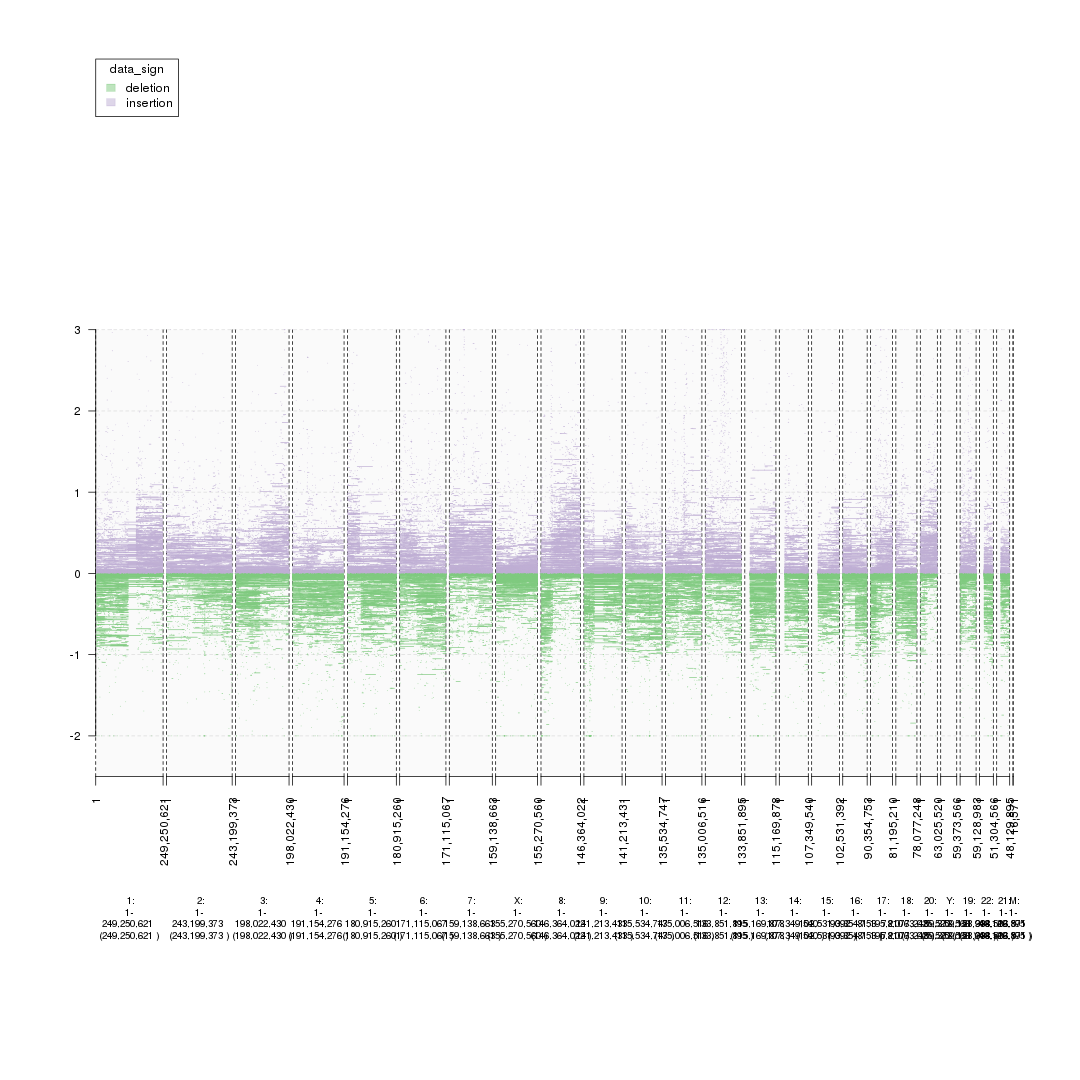
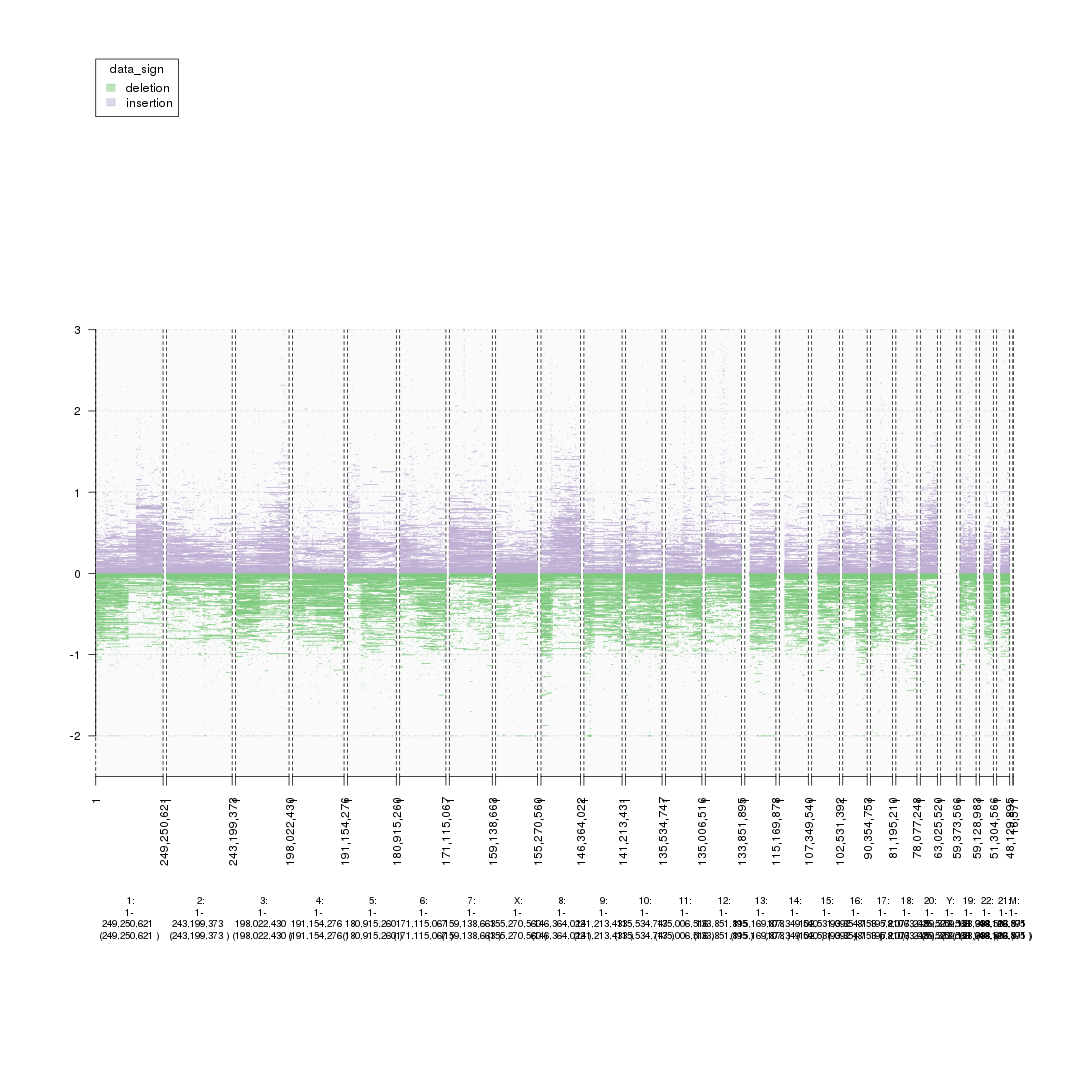
update super enhancers

Changed region(s): [[0.0917, 0.4278, 0.9472, 0.6111]]

diff --git a/rtdocs/super_enhancers/super_enhancers.rst b/rtdocs/super_enhancers/super_enhancers.rst
@@ -45,11 +45,7 @@ To illustrate gTrack's capability in exploring data sets such as ChiP-Seq data
     ## Coerce into GRanges from data.table because gTrack operates on GRanges.
     seg_ranges <- dt2gr(seg_data)
     
-    ## Subset to MYC enhancer amplification regions.
-    seg_data_chrom8 <- seg_data[ Chromosome == 8]
-    
-    ## coerce into GRanges from data.table because gTrack operates on GRanges.
-    seg_ranges_chrom8 <- dt2gr(seg_data_chrom8)
+    ## first glimpse (gotta know what the data looks like). Probably should zoom in before even starting.
 
 
 
@@ -75,6 +71,22 @@ To illustrate gTrack's capability in exploring data sets such as ChiP-Seq data
     :alt: plot of chunk starting_analysis_plot2
 
     plot of chunk starting_analysis_plot2
+
+
+.. sourcecode:: r
+    
+
+    ## Subset to MYC enhancer amplification regions.
+    seg_data_chrom8 <- seg_data[ Chromosome == 8]
+    
+    ## coerce into GRanges from data.table because gTrack operates on GRanges.
+    seg_ranges_chrom8 <- dt2gr(seg_data_chrom8)
+
+
+..{ starting_analysis_plot3, fig.width = 15, fig.height = 15}
+## if you want to manually set the colors. Better because red/blue can be chosen instead of some random colors. 
+..plot(gTrack(seg_ranges_chrom8, y.field = 'Log2.Ratio', colormaps = list('data_sign' = c(insertion = "blue", deletion = "red"))), win = seg_ranges_chrom8)
+.. .. 
 
 
 .. sourcecode:: r
